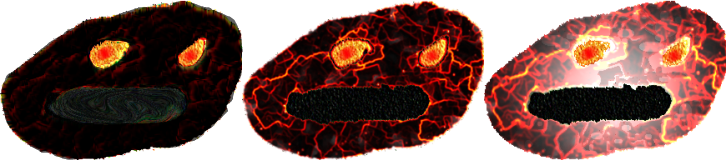
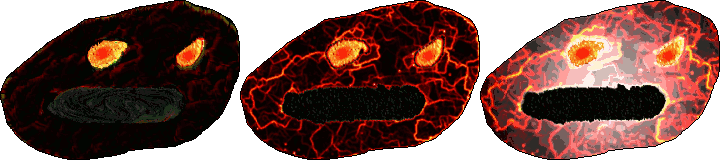
Improved sprites for asteroids and EvilBoss

diff --git a/bin/README.html b/bin/README.html
@@ -250,7 +250,7 @@ var current_tab = -1;
 	<ul>
 		<li><b>Images:</b>
 			<ul>
-				<li>asteroid-*.png: edited images from <a href="http://www.flyingyogi.com/fun/spritelib.html">SpriteLib GPL</a></li>
+				<li><a href="http://www.spriters-resource.com/ds/kirbymassatk/sheet/49877">entities/asteroids.png</a></li>
 			</ul>
 		</li>
 		<li><b>Sounds:</b>
@@ -456,7 +456,7 @@ var current_tab = -1;
 	<ul>
 		<li><b>Images :</b>
 			<ul>
-				<li>asteroid-*.png : images modifiées de <a href="http://www.flyingyogi.com/fun/spritelib.html">SpriteLib GPL</a></li>
+				<li><a href="http://www.spriters-resource.com/ds/kirbymassatk/sheet/49877">entities/asteroids.png</a></li>
 			</ul>
 		</li>
 		<li><b>Sons :</b>

diff --git a/src/entities/Asteroid.cpp b/src/entities/Asteroid.cpp
@@ -6,8 +6,8 @@
 #include "utils/Math.hpp"
 
 #define BASE_SPEED         80
-#define ROTATION_SPEED_MIN 40
-#define ROTATION_SPEED_MAX 160
+#define ROTATION_SPEED_MIN 10
+#define ROTATION_SPEED_MAX 80
 
 
 Asteroid::Asteroid(Size size, float angle):
@@ -15,6 +15,7 @@ Asteroid::Asteroid(Size size, float angle):
 	m_rotation_speed(xsf::random(ROTATION_SPEED_MIN, ROTATION_SPEED_MAX))
 {
 	setHP(size * 2 + 1);
+	setTexture(Resources::getTexture("entities/asteroids.png"));
 	setRandomImage();
 
 	// Compute speed vector from angle and velocity
@@ -43,8 +44,8 @@ void Asteroid::onDestroy()
 	switch (m_size)
 	{
 		case BIG:
-			// Create 2 medium asteroids
-			for (int i = 0; i < 2; ++i)
+			// Create 3 medium asteroids
+			for (int i = 0; i < 3; ++i)
 			{
 				Asteroid* asteroid = new Asteroid(MEDIUM, xsf::random(0, 360));
 				asteroid->setPosition(pos);
@@ -52,8 +53,8 @@ void Asteroid::onDestroy()
 			}
 			break;
 		case MEDIUM:
-			// Create 4 small asteroids
-			for (int i = 0; i < 4; ++i)
+			// Create 3 small asteroids
+			for (int i = 0; i < 3; ++i)
 			{
 				Asteroid* asteroid = new Asteroid(SMALL, xsf::random(0, 360));
 				asteroid->setPosition(pos);
@@ -70,23 +71,18 @@ void Asteroid::onDestroy()
 
 void Asteroid::setRandomImage()
 {
-	int x = 0;
+
+	int x = xsf::random(0, 5); // nb sprites = 6
 	switch (m_size)
 	{
-		case SMALL:
-			setTexture(Resources::getTexture("entities/asteroid-small.png"));
-			x = xsf::random(0, 3) * 16; // 4 sprites
-			setTextureRect(sf::IntRect(x, 0, 16, 16));
+		case BIG:
+			setTextureRect(sf::IntRect(0 + x * 64, 0, 64, 64)); // 64px
 			break;
 		case MEDIUM:
-			setTexture(Resources::getTexture("entities/asteroid-medium.png"));
-			x = xsf::random(0, 2) * 32; // 3 sprites
-			setTextureRect(sf::IntRect(x, 0, 32, 32));
+			setTextureRect(sf::IntRect(0 + x * 32, 64, 32, 32)); // 32px
 			break;
-		case BIG:
-			setTexture(Resources::getTexture("entities/asteroid-big.png"));
-			x = xsf::random(0, 2) * 48; // 3 sprites
-			setTextureRect(sf::IntRect(x, 0, 48, 48));
+		case SMALL:
+			setTextureRect(sf::IntRect(192 + x * 16, 64, 16, 16)); // 16px
 			break;
 	}
 }

diff --git a/src/entities/EntityManager.cpp b/src/entities/EntityManager.cpp
@@ -200,6 +200,7 @@ void EntityManager::Update(float frametime)
 	{
 		Entity& entity = **it;
 		entity.onUpdate(frametime);
+		Entity::BoundingBox box = entity.getBoundingBox();
 
 		if (entity.isDead())
 		{
@@ -207,8 +208,7 @@ void EntityManager::Update(float frametime)
 			delete *it;
 			it = m_entities.erase(it);
 		}
-		else if (entity.getY() + entity.getHeight() < 0 || entity.getY() > m_height ||
-				 entity.getX() + entity.getWidth() < 0 || entity.getX() > m_width)
+		else if (box.right < 0 || box.bottom < 0 || box.left > m_width || box.top > m_height)
 		{
 			// Remove entities outside the entity manager
 			delete *it;
@@ -507,6 +507,7 @@ bool EntityManager::arcadeModeCallback()
 		Entity* entity = createRandomEntity();
 		entity->setX(m_width - 1);
 		entity->setY(xsf::random(0, m_height - (int) entity->getHeight()));
+		entity->move(entity->getOrigin());
 		addEntity(entity);
 	}
 	// Always true, spawn infinite entities, player will die eventually... :o)
@@ -520,6 +521,7 @@ bool EntityManager::storyModeCallback()
 	Entity* next = m_levels.spawnNextEntity(timer_);
 	while (next != NULL)
 	{
+		next->move(next->getOrigin());
 		addEntity(next);
 		next = m_levels.spawnNextEntity(timer_);
 	}

diff --git a/src/entities/Entity.cpp b/src/entities/Entity.cpp
@@ -1,6 +1,26 @@
 #include "Entity.hpp"
 #include "core/Collisions.hpp"
 
+// BoundingBox -----------------------------------------------------------------
+
+Entity::BoundingBox::BoundingBox():
+	left(0.f),
+	top(0.f),
+	right(0.f),
+	bottom(0.f)
+{
+}
+
+
+Entity::BoundingBox::BoundingBox(float l, float t, float r, float b):
+	left(l),
+	top(t),
+	right(r),
+	bottom(b)
+{
+}
+
+// Entity ----------------------------------------------------------------------
 
 Entity::Entity():
 	m_dead(false),
@@ -32,6 +52,13 @@ Entity::Team Entity::getTeam() const
 void Entity::setTeam(Team team)
 {
 	m_team = team;
+}
+
+
+Entity::BoundingBox Entity::getBoundingBox() const
+{
+	sf::Vector2f pos = getPosition() - getOrigin();
+	return BoundingBox(pos.x, pos.y, pos.x + getTextureRect().width, pos.y + getTextureRect().height);
 }
 
 

diff --git a/src/entities/bosses/EvilBoss.cpp b/src/entities/bosses/EvilBoss.cpp
@@ -18,7 +18,7 @@ EvilBoss::EvilBoss():
 	m_target(NULL)
 {
 	setTexture(Resources::getTexture("entities/evil-boss.png"));
-	setTextureRect(sf::IntRect(0, 0, 242, 160));
+	setTextureRect(sf::IntRect(0, 0, 240, 160));
 	setTeam(Entity::BAD);
 	setHP(EVIL);
 
@@ -82,12 +82,12 @@ void EvilBoss::takeDamage(int damage)
 		switch (m_state)
 		{
 			case MORE_EVIL:
-				setTextureRect(sf::IntRect(242, 0, 242, 160));
+				setTextureRect(sf::IntRect(240, 0, 240, 160));
 				m_mouth.init("laser-pink");
 				m_next_state = DAMN_EVIL;
 				break;
 			case DAMN_EVIL:
-				setTextureRect(sf::IntRect(242 * 2, 0, 242, 160));
+				setTextureRect(sf::IntRect(240 * 2, 0, 240, 160));
 				m_mouth.setMultiply(3);
 				m_eye_left.setMultiply(3);
 				m_eye_right.setMultiply(3);

diff --git a/src/entities/Entity.hpp b/src/entities/Entity.hpp
@@ -13,6 +13,17 @@ class Projectile;
 class Entity: public sf::Sprite
 {
 public:
+	struct BoundingBox
+	{
+		BoundingBox();
+		BoundingBox(float l, float t, float r, float b);
+
+		float left;
+		float top;
+		float right;
+		float bottom;
+	};
+
 	enum Team
 	{
 		GOOD, NEUTRAL, BAD
@@ -64,6 +75,8 @@ public:
 	virtual void onCollision(Projectile&) {}
 
 	// helpers -----------------------------------------------------------------
+
+	BoundingBox getBoundingBox() const;
 
 	inline float getWidth() const  { return getTextureRect().width; }
 	inline float getHeight() const { return getTextureRect().height; }
